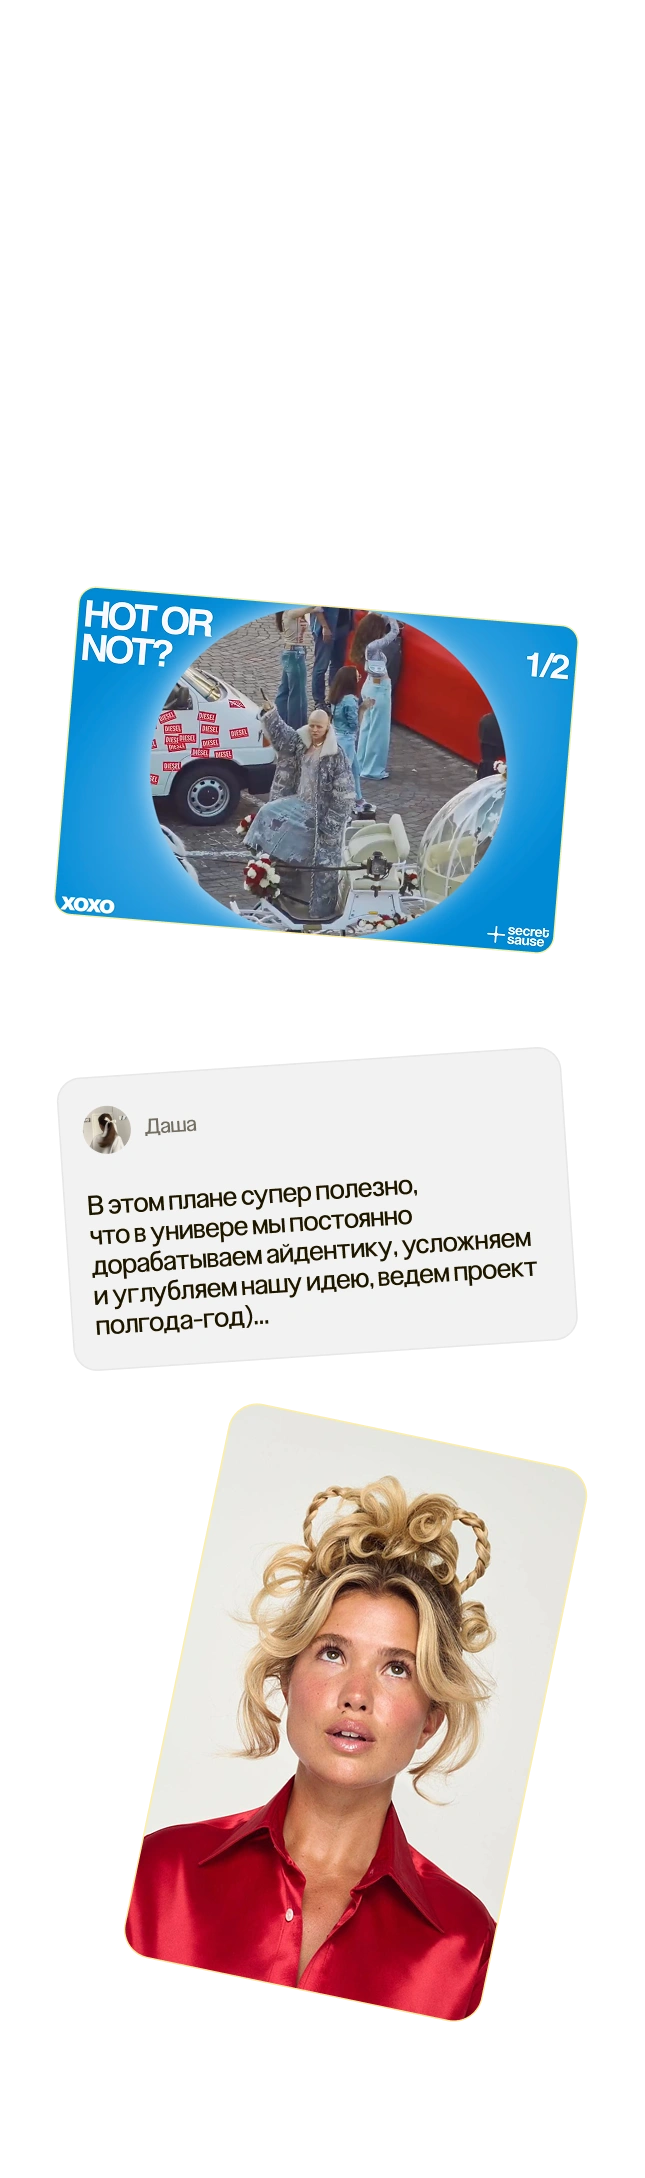
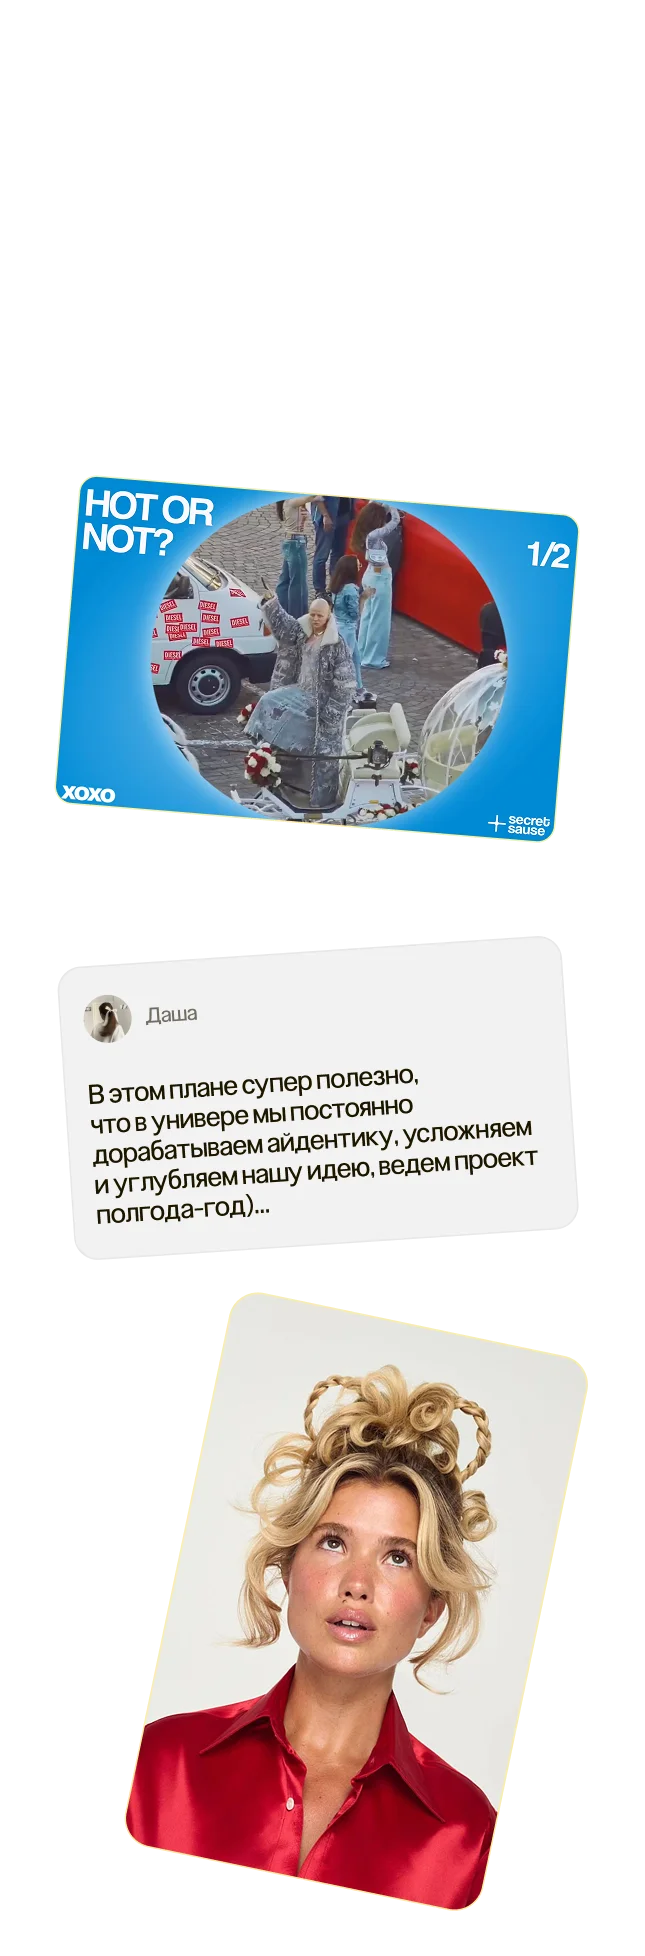
adaptive about

Changed region(s): [[0.124, 0.499, 0.9302, 0.998], [0.062, 0.2183, 0.8992, 0.4366], [0.2791, 0.6861, 0.3411, 0.7797]]

diff --git a/src/stylesheets/adaptive.scss b/src/stylesheets/adaptive.scss
@@ -122,6 +122,40 @@
       font-size: 20px;
     }
   }
+
+
+  .M_AuthorArticleBox {
+    height: 27vw;
+    padding: 3vw 12vw 3vw 3vw;
+  }
+  .W_AboutUsInfoP{
+    margin-bottom: 6vw;
+  }
+  .W_AboutUsInfo{
+    gap: 4vw;
+  }
+  .C_AuthorBox{
+    gap: 2vw;
+  }
+  .W_AuthorBlock{
+    padding: 10vw 3vw;
+    gap: 6vw;
+  }
+  .M_Authors {
+    width: 50vw;
+  }
+  .C_AuthorLine {
+    gap: 3vw;
+    align-items: center;
+    flex-direction: row;
+    justify-content: center;
+    flex-wrap: wrap;
+  }
+  .Q_AdvertImg{
+    height: 100vw;
+    margin-bottom: 6vw;
+  }
+  
 }
 
 @media screen and (max-width: 700px) {
@@ -492,6 +526,49 @@
   .M_TextField{
     padding: 5vw 10vw 5vw 5vw;
   }
+
+  .Q_BackgroundAbout {
+    gap: 24vw;
+    background-image: url(/src/images/AboutUs/Q_background.webp);
+  }
+  .M_AuthorArticleBox {
+    width: 100%;
+    height: 46vw;
+    flex-shrink: 0;
+    padding: 6vw 40vw 6vw 6vw;
+    justify-content: flex-start;
+  }
+  .Q_AdvertImg {
+    height: 287vw;
+    margin-bottom: 6vw;
+    width: 100%;
+    background-image: url(/src/images/AboutUs/events-wrapper.webp);
+    background-size: 100%;
+  }
+  .W_AboutUsInfo{
+    width: 100%;
+    gap: 24vw;
+    padding: 3vw;
+    margin-bottom: 14vw;
+    h2{
+      font-size: 36px;
+    }
+  }
+  .M_Authors{
+    width: 85%;
+    gap: 3vw;
+    h2{
+      font-size: 36px;
+    }
+  }
+  .W_AuthorBlock {
+    padding: 14vw 8vw;
+    gap: 10vw;
+  }
+  .C_AuthorLine{
+    gap: 5vw;
+  }
+
 }
 @media screen and (max-width: 431px) {
   .W-HeroContent {
@@ -544,21 +621,5 @@
     }
   }
 
-  .Q_BackgroundAbout {
-    background-image: url(/src/images/AboutUs/Q_background.webp);
-  }
-  .M_AuthorArticleBox {
-    width: 27.08vw;
-    height: 34.64vw;
-    flex-shrink: 0;
-  }
-  .Q_LargeArticle {
-    background-image: url(/src/images/AboutUs/Q_LargeArticleMpbile.webp);
-  }
-  .Q_Visible {
-    background-image: url(/src/images/AboutUs/Q_VisualMobile.webp);
-  }
-  .Q_AdvertImg {
-    background-image: url(/src/images/AboutUs/events-wrapper.webp);
-  }
+  
 }

diff --git a/src/about.html b/src/about.html
@@ -65,7 +65,7 @@
         </div>
       </div>
       <div class="W_AboutUsInfo">
-        <h2>Secret Sauce – медиа про визуал популярных продуктов</h2>
+        <h2>Secret Sauce&nbsp;&mdash; медиа про визуал популярных продуктов</h2>
         <div class="C_AuthorBox">
           <div class="M_AuthorArticleBox Q_LargeArticle">
             <h4>Полноформатные статьи</h4>
@@ -143,9 +143,9 @@
     </div>
     <div class="Q_AdvertImg">
       <div class="M_Authors">
-        <h2>Стань частью комьюнити</h2>
+        <h2>Стань частью <br> комьюнити</h2>
         <p class="p1">
-          Обсуждай, предлагай темы для постов и&nbsp;коллаборируйся
+          Обсуждай, предлагай темы для постов<br> и&nbsp;коллаборируйся
         </p>
       </div>
     </div>

diff --git a/src/stylesheets/components/01_quarks.scss b/src/stylesheets/components/01_quarks.scss
@@ -155,17 +155,19 @@
   display: flex;
   flex-direction: column;
   justify-content: space-between;
-  gap: 16vw;
+  gap: 6vw;
 }
 .Q_LargeArticle {
   background-image: url(/src/images/AboutUs/Q_LargeArticle.webp);
+  background-position: right;
 }
 .Q_Visible {
   background-image: url(/src/images/AboutUs/Q_Visible.webp);
+  background-position: right;
 }
 .Q_AdvertImg {
   background-image: url(/src/images/AboutUs/advertblockwrapper.webp);
-  height: 140%;
+  height: 80vw;
   display: flex;
   flex-direction: column;
   background-size: cover; /* Это делает картинку полностью видимой без обрезки */
@@ -176,7 +178,7 @@
 }
 
 .Q_Author {
-  border-radius: 10vw;
+  border-radius: 20vw;
   display: flex;
   width: 100%;
   justify-content: flex-end;

diff --git a/src/stylesheets/components/03_moleculs.scss b/src/stylesheets/components/03_moleculs.scss
@@ -455,8 +455,9 @@ a.M_ArticleBottomMenu {
 .M_AuthorArticleBox {
   background-size: cover;
   width: 46.67vw;
-  height: 17.5vw;
+  height: 15vw;
   border-radius: 2.22vw;
+  gap: 3vw;
   padding: 3vw 19vw 3vw 3vw;
   display: flex;
   flex-direction: column;
@@ -474,7 +475,7 @@ a.M_ArticleBottomMenu {
   display: flex;
   flex-direction: column;
   align-items: center;
-  gap: 3vw;
+  gap: 1.2vw;
   p {
     color: var(--dark-brown-60);
   }

diff --git a/src/stylesheets/components/04_wrappers.scss b/src/stylesheets/components/04_wrappers.scss
@@ -177,7 +177,7 @@
   display: flex;
   flex-direction: column;
   align-self: center;
-  gap: 10vw;
+  gap: 6vw;
   h2 {
     text-align: center;
     color: var(--soft-orange);
@@ -187,7 +187,7 @@
 .W_AuthorBlock {
   display: flex;
   width: 100%;
-  padding: 20.83vw 6.19vw;
+  padding: 8vw 6vw;
   flex-direction: column;
   align-items: center;
   gap: 8.06vw;

diff --git a/src/stylesheets/components/05_collections.scss b/src/stylesheets/components/05_collections.scss
@@ -52,7 +52,6 @@
   display: flex;
   align-items: center;
   flex-direction: row;
-  gap: 4vw;
   align-self: stretch;
-  justify-content: center;
+  justify-content: space-between;
 }

diff --git a/src/stylesheets/basics.scss b/src/stylesheets/basics.scss
@@ -149,6 +149,7 @@ h6 {
 
 p.p1 {
   font-size: 22px;
+  line-height: 100%;
 }
 
 p.p2 {
